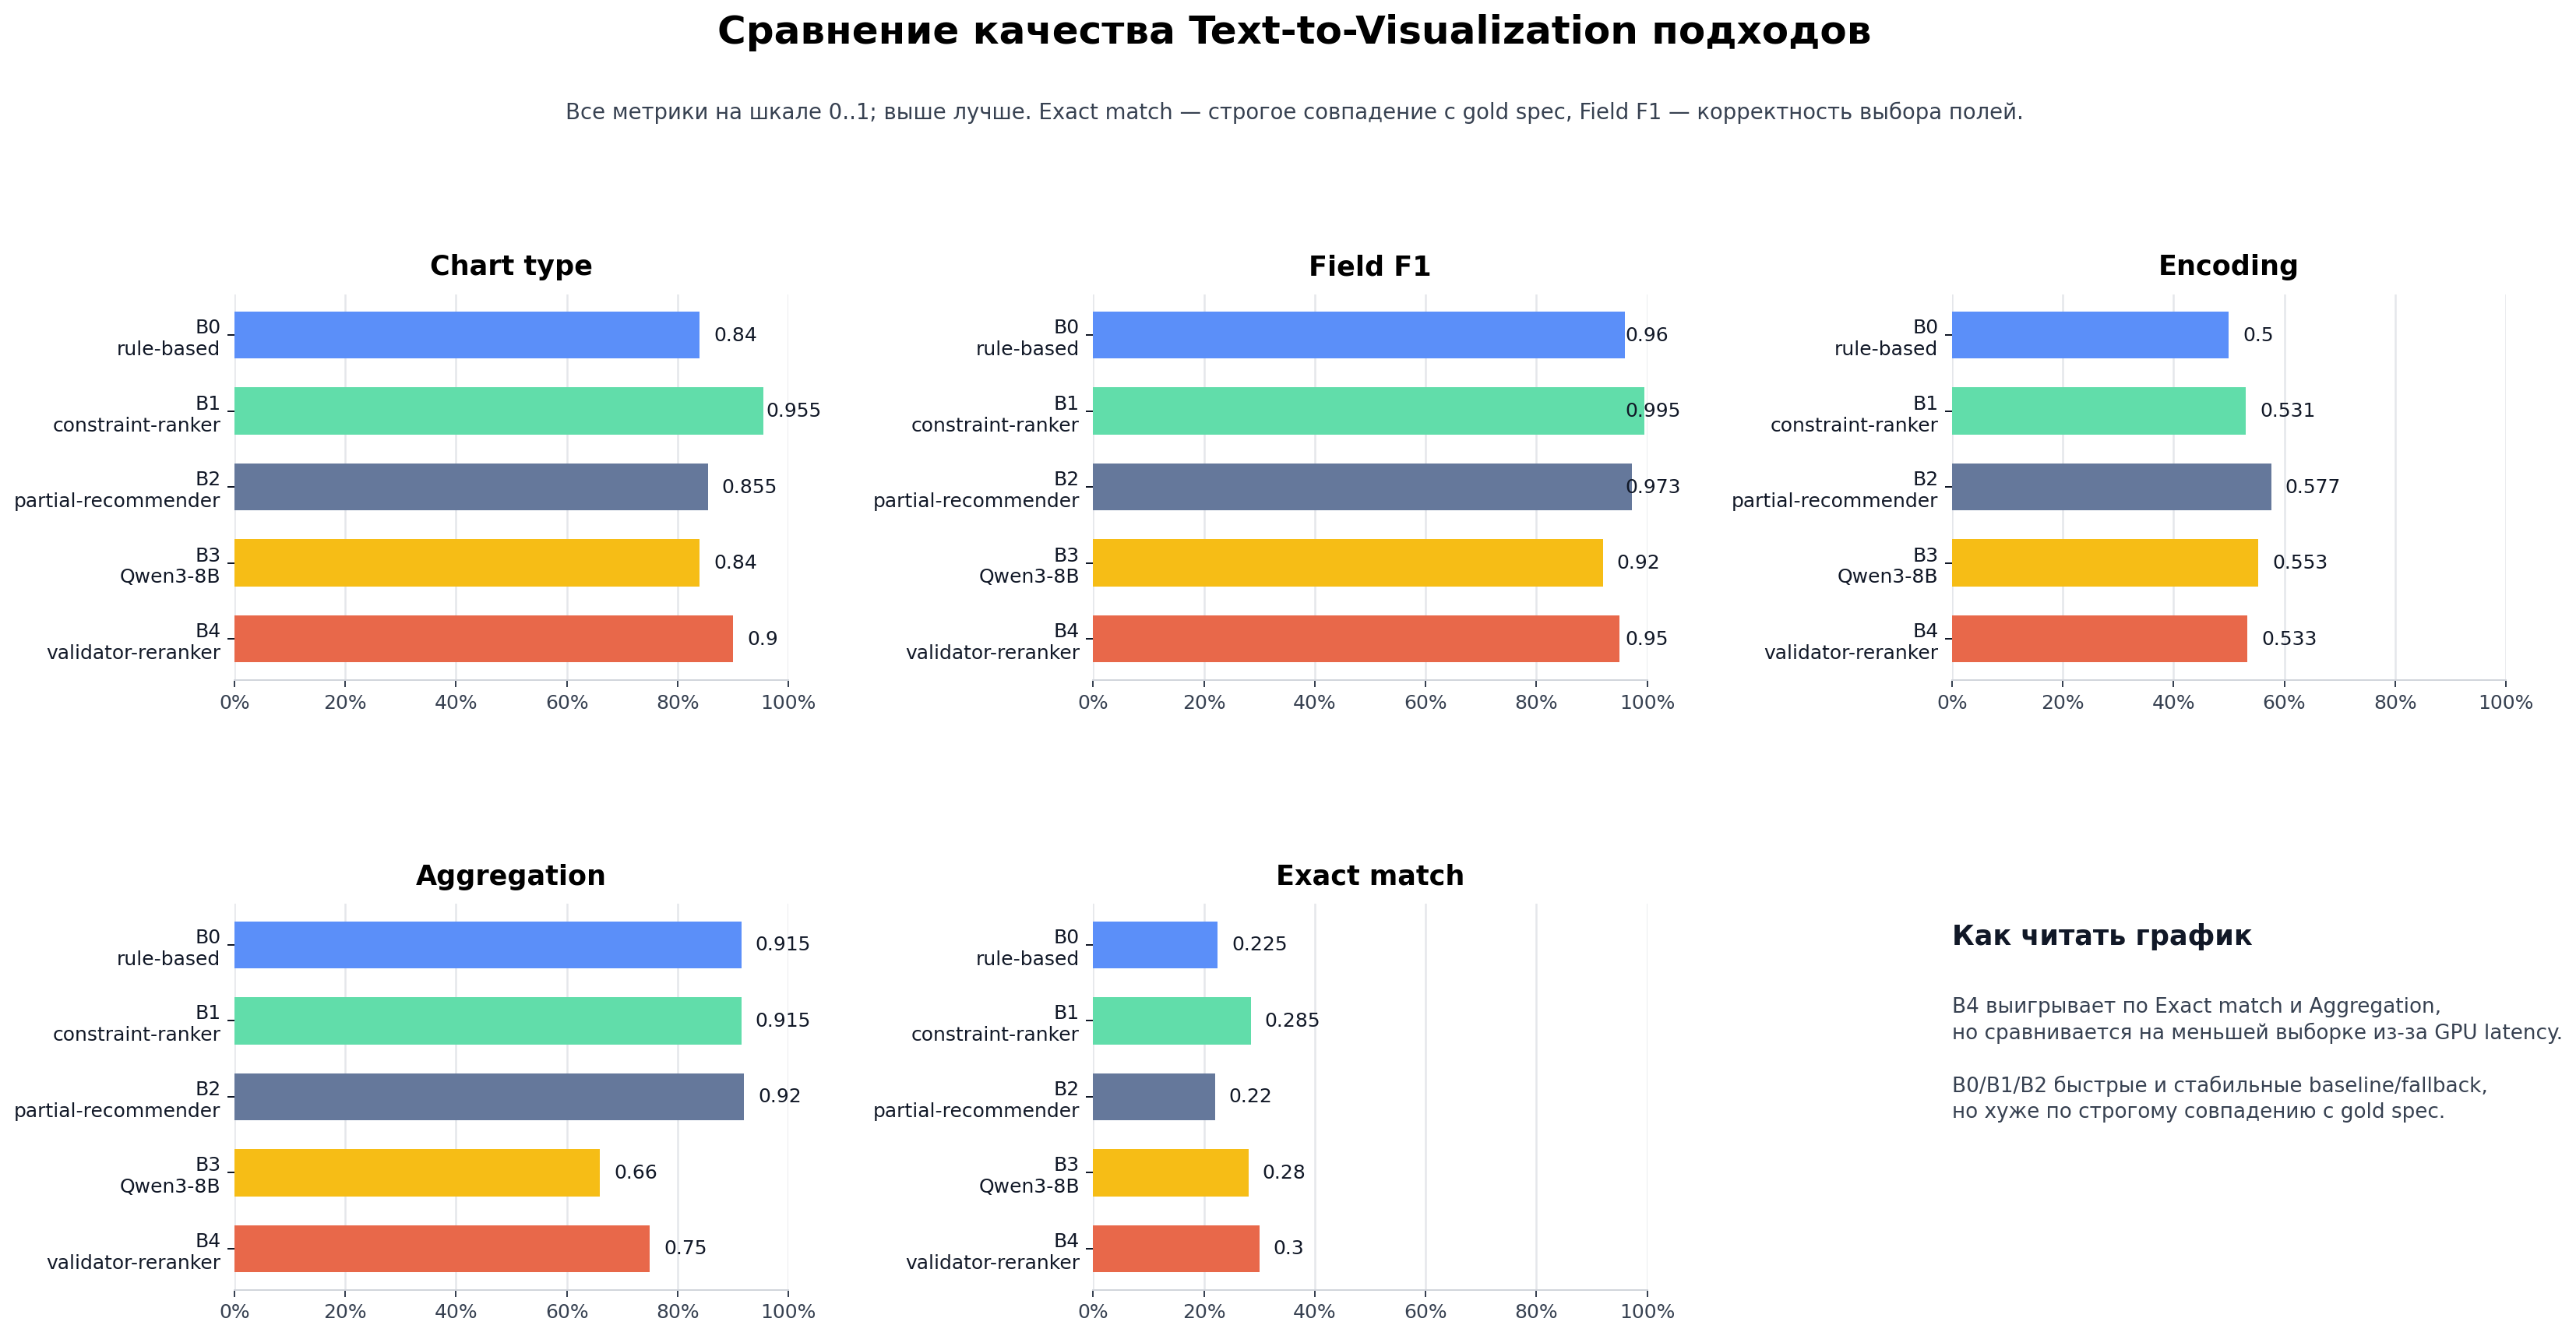
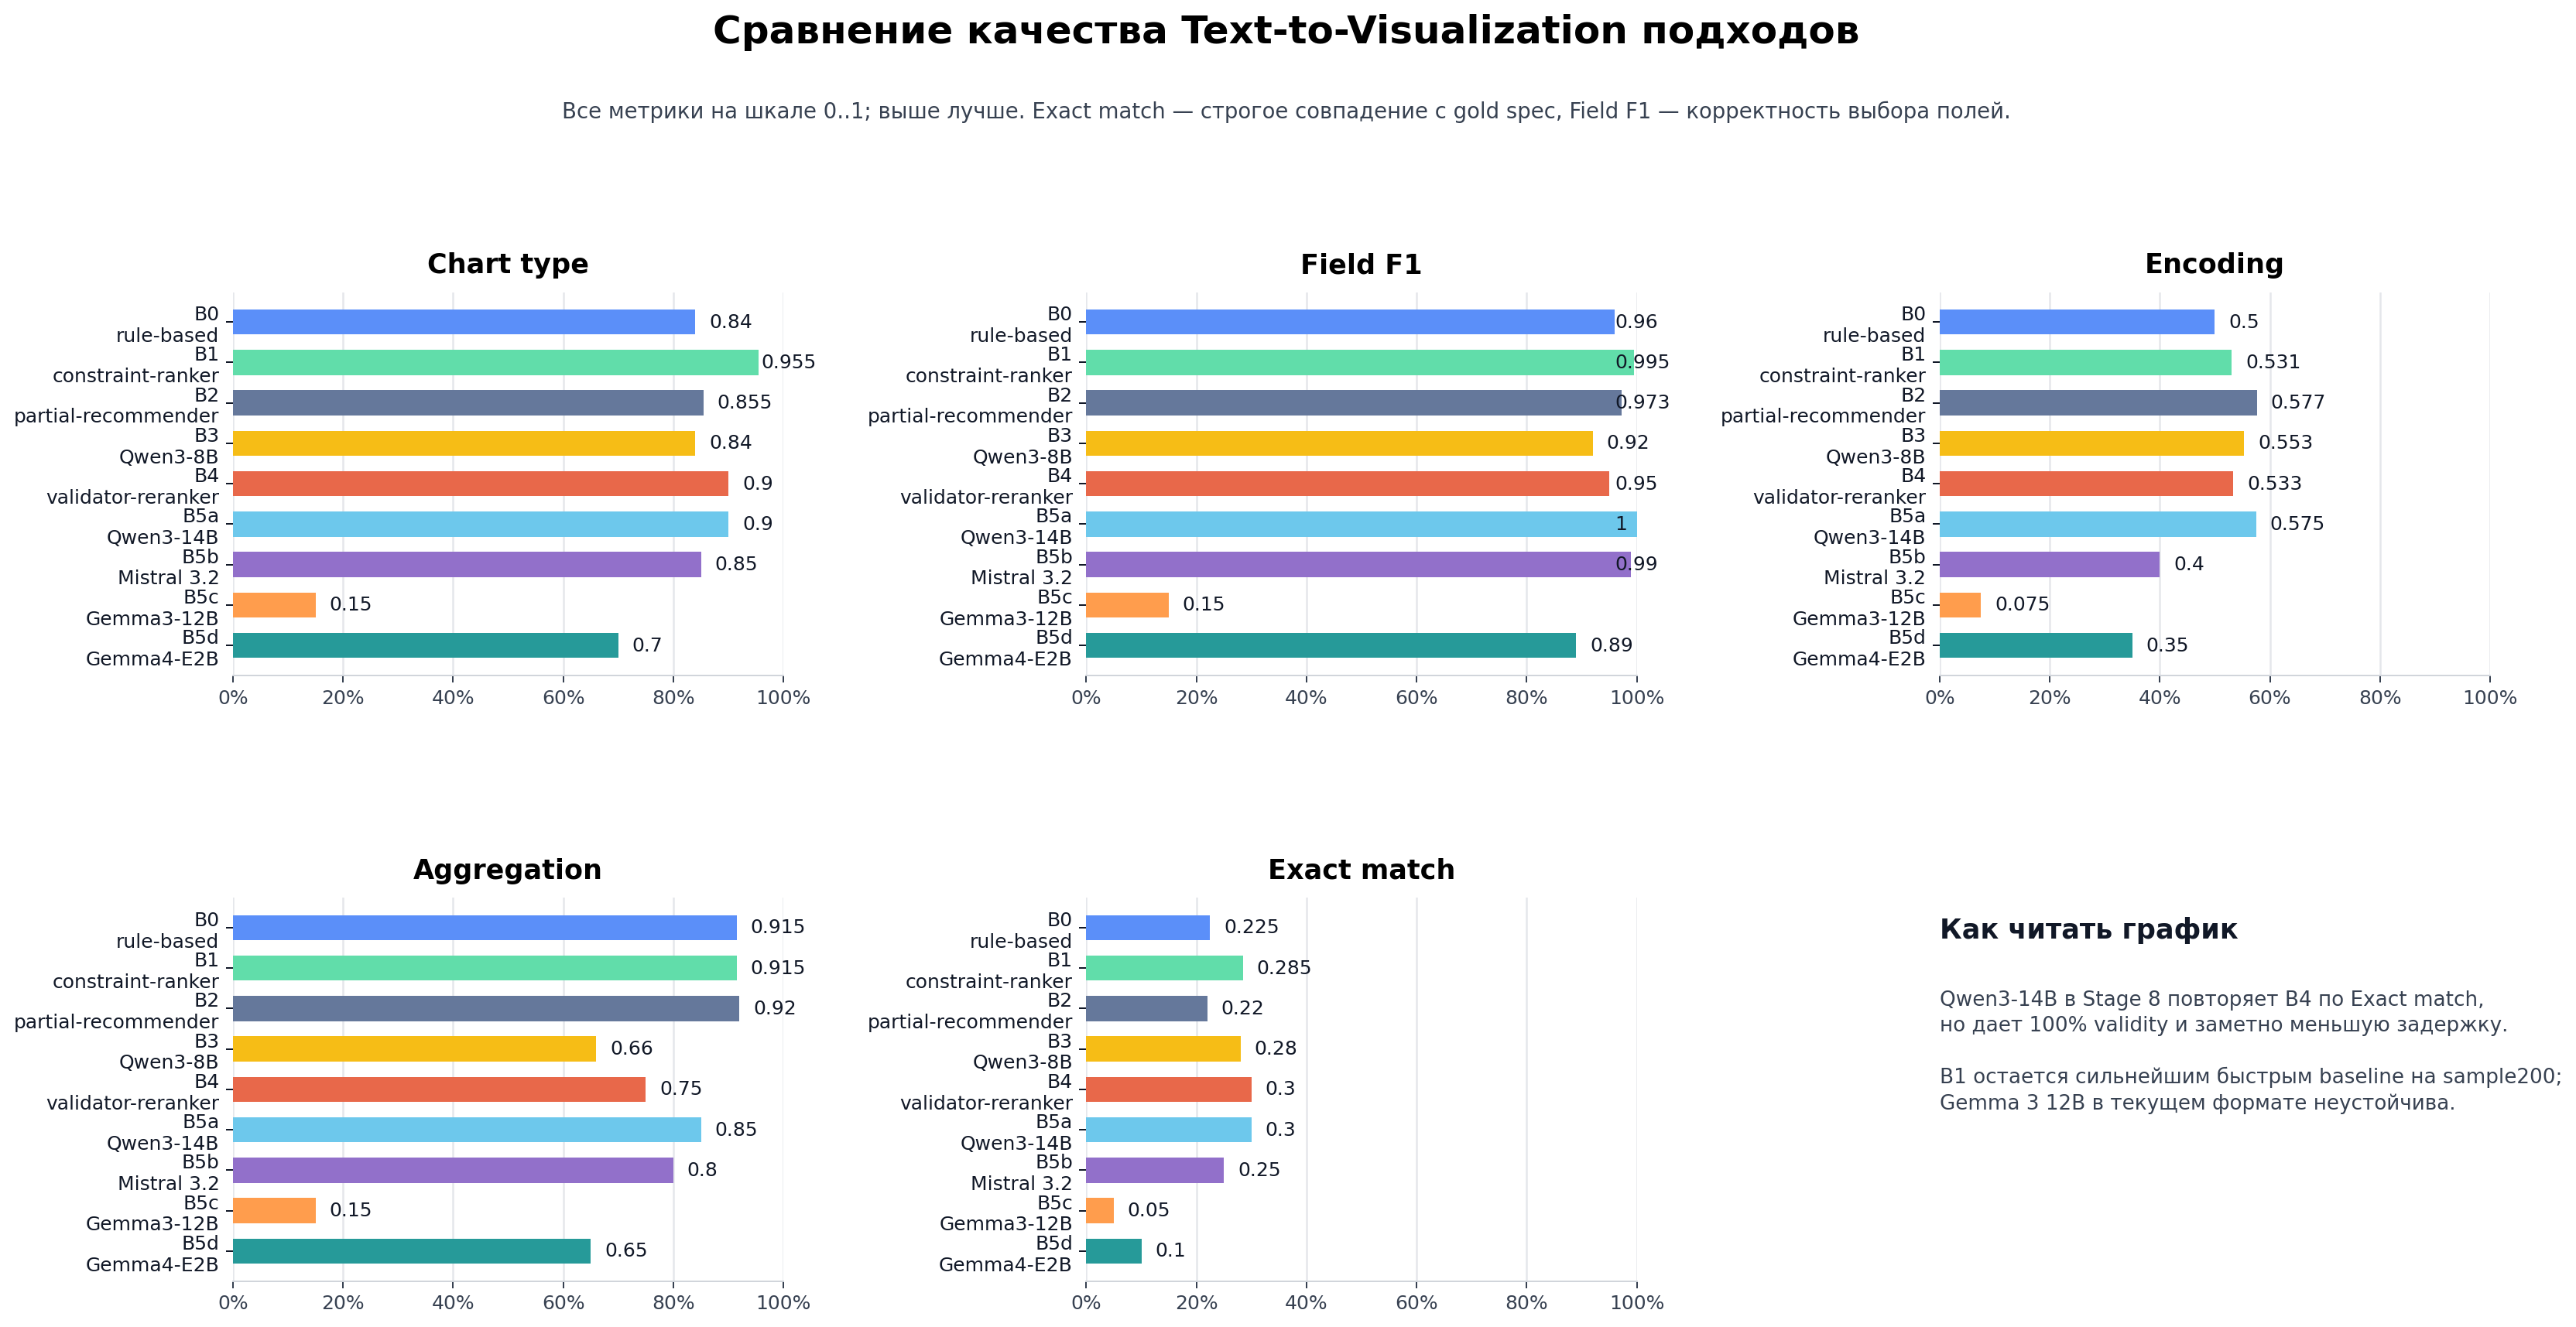
Fix Colab waiter and refresh Stage 9 materials

diff --git a/reports/stage9_report_materials/latex/quality_metrics_table.tex b/reports/stage9_report_materials/latex/quality_metrics_table.tex
@@ -18,6 +18,10 @@ B1 & 1 & 0.995 & 0.531 & 0.285 & 0 \\
 B2 & 1 & 0.973 & 0.577 & 0.22 & 0 \\
 B3 & 0.92 & 0.92 & 0.553 & 0.28 & 0.08 \\
 B4 & 0.95 & 0.95 & 0.533 & 0.3 & 0.05 \\
+B5a & 1 & 1 & 0.575 & 0.3 & 0 \\
+B5b & 1 & 0.99 & 0.4 & 0.25 & 0 \\
+B5c & 0.15 & 0.15 & 0.075 & 0.05 & 0.85 \\
+B5d & 0.9 & 0.89 & 0.35 & 0.1 & 0.1 \\
 \bottomrule
 \end{tabular}
 \end{table}

diff --git a/reports/practice_report_materials.md b/reports/practice_report_materials.md
@@ -8,7 +8,7 @@
 
 ## Что реализовано
 
-Реализованы пять подходов:
+Реализованы базовые подходы B0-B4 и дополнительные Stage 8 LLM-подходы B5a-B5d:
 
 | Подход | Метод | Семейство | Sample | run_id | Роль |
 | --- | --- | --- | --- | --- | --- |
@@ -17,8 +17,12 @@
 | B2 | B2_partial_recommender | Подход в стиле существующих инструментов | 200 | stage5_partial_sample200 | Частичный recommender fallback |
 | B3 | B3_local_llm_qwen3_8b | Локальная LLM | 50 | stage6_qwen3_8b_fast_sample50 | Один кандидат Qwen3-8B |
 | B4 | B4_llm_validator_reranker | Локальная LLM + validation | 20 | stage7_b4_sample20_tokens384 | 3 кандидата + validator/reranker |
+| B5a | B5_stage8_qwen3_14b | Stage 8 LLM + strict JSON validator | 20 | stage8_qwen3_14b_sample20 | Qwen3-14B, один кандидат, validator retry |
+| B5b | B5_stage8_mistral_small_32_24b_bnb4 | Stage 8 LLM + strict JSON validator | 20 | stage8_mistral_small_32_24b_bnb4_sample20 | Mistral Small 3.2 24B bnb-4bit, один кандидат |
+| B5c | B5_stage8_gemma3_12b_it | Stage 8 LLM + strict JSON validator | 20 | stage8_gemma3_12b_it_sample20 | Gemma 3 12B IT, gated HF model |
+| B5d | B5_stage8_gemma4_e2b_it | Stage 8 LLM + strict JSON validator | 20 | stage8_gemma4_e2b_it_sample20 | Gemma 4 E2B IT, малый контрольный LLM baseline |
 
-Этап 8 намеренно пропущен как опциональный: дополнительные LLM-эксперименты требуют GPU-времени, а для отчета уже есть сравнение пяти подходов `B0`-`B4`.
+Этап 8 добавлен отдельным блоком: `B5a`-`B5d` сравнивают новые LLM-модели с тем же строгим JSON/Vega-Lite validator и retry-контуром. Эти прогоны выполнены на `sample20`, поэтому они полезны для выбора LLM-кандидата, но не заменяют полное сравнение `B0`-`B2` на `sample200`.
 
 ## Методика экспериментов
 
@@ -26,7 +30,7 @@
 2. Все runs сохранялись в канонической папке Google Drive: `/content/drive/MyDrive/diploma/petr_text_to_visualization_part`.
 3. Для каждого метода сохранялись файлы предсказаний jsonl, агрегированные и попримерные метрики, информация о среде выполнения, pip freeze и артефакты рендеринга.
 4. Основные метрики: `vega_lite_validity`, `field_selection_f1`, `encoding_accuracy`, `aggregation_accuracy`, `normalized_exact_match`, `failure_rate`, `latency_ms`, `memory_peak_mb`.
-5. Для B4 дополнительно сохраняются все 3 кандидата на пример и считается `oracle_success_at_k`.
+5. Для B4 дополнительно сохраняются все 3 кандидата на пример и считается `oracle_success_at_k`; для Stage 8 моделей фиксируется один основной кандидат после validator retry.
 
 ## Итоговые результаты
 
@@ -39,6 +43,10 @@
 | B2 | 1.0 | 0.855 | 0.973 | 0.5766666666666667 | 0.92 | 0.22 | 0.22 |
 | B3 | 0.92 | 0.84 | 0.92 | 0.5533333333333333 | 0.66 | 0.28 | 0.28 |
 | B4 | 0.95 | 0.9 | 0.95 | 0.5333333333333333 | 0.75 | 0.3 | 0.35 |
+| B5a | 1.0 | 0.9 | 1.0 | 0.575 | 0.85 | 0.3 | 0.3 |
+| B5b | 1.0 | 0.85 | 0.99 | 0.4 | 0.8 | 0.25 | 0.25 |
+| B5c | 0.15 | 0.15 | 0.15 | 0.075 | 0.15 | 0.05 | 0.05 |
+| B5d | 0.9 | 0.7 | 0.89 | 0.35 | 0.65 | 0.1 | 0.1 |
 
 ### Задержка, память и ошибки
 
@@ -49,18 +57,22 @@
 | B2 | 7.05238 | 109.949 | 0.0 | 200 |
 | B3 | 20101.22146 | 1981.508 | 0.08 | 50 |
 | B4 | 66825.6801 | 2127.145 | 0.05 | 20 |
+| B5a | 8133.003999999999 | 2064.027 | 0.0 | 20 |
+| B5b | 6045.25885 | 1889.961 | 0.0 | 20 |
+| B5c | 69237.6294 | 2556.523 | 0.85 | 20 |
+| B5d | 44562.2476 | 2200.0 | 0.1 | 20 |
 
-Ключевой результат: `B4_llm_validator_reranker` дает лучший top-1 exact match среди финальных запусков, но проверен на меньшей выборке и дороже по задержке, так как генерирует три кандидата на пример. Среди быстрых детерминированных подходов сильнее всего выглядит `B1_constraint_ranker`, а `B2_partial_recommender` стал заметно лучше после пересборки данных. Практический вариант для интеграции - гибрид: быстрый детерминированный резервный подход (`B1`/`B2`) плюс B4 для случаев, где важнее качество и допустима задержка.
+Ключевой результат: среди быстрых детерминированных подходов сильнее всего выглядит `B1_constraint_ranker`, а среди новых LLM baseline лучший результат на `sample20` дал `Qwen3-14B` (`B5a`): он повторил B4 по exact match, получил 100% validity и оказался заметно быстрее B4. `Mistral Small 3.2` (`B5b`) выглядит как быстрый LLM-кандидат, но немного уступает Qwen3-14B по качеству. `Gemma 3 12B` (`B5c`) в текущем prompt/schema режиме не рекомендуется из-за высокого failure rate. Практический вариант для интеграции - гибрид: быстрый детерминированный резервный подход (`B1`/`B2`) плюс `Qwen3-14B` или B4 для случаев, где важнее качество и допустима задержка.
 
 ## Выбор подхода для дальнейшей интеграции
 
 Рекомендация:
 
 - Для рабочего резервного варианта: `B1_constraint_ranker` или `B2_partial_recommender`, потому что они быстрые, валидные и воспроизводимые.
-- Для исследовательского качества и демонстрации LLM-возможностей: `B4_llm_validator_reranker`.
-- Для одиночного LLM-подхода без reranking: `B3_local_llm_qwen3_8b`, если нужно снизить задержку относительно B4.
+- Для исследовательского качества и демонстрации LLM-возможностей: `B5_stage8_qwen3_14b` как лучший одиночный LLM baseline на sample20; B4 остается полезным как reranker/validator baseline.
+- Для быстрого одиночного LLM-подхода без reranking: `B5_stage8_mistral_small_32_24b_bnb4`, если важна задержка и допускается небольшое снижение качества относительно Qwen3-14B.
 
-Итоговая архитектура интеграции: сначала быстрый базовый подход формирует гарантированную валидную визуализацию; при наличии GPU/времени B4 генерирует несколько кандидатов, валидатор фильтрует незаконные спецификации, reranker выбирает лучший результат.
+Итоговая архитектура интеграции: сначала быстрый базовый подход формирует гарантированную валидную визуализацию; при наличии GPU/времени LLM-контур генерирует Vega-Lite JSON, validator не пропускает некорректные спецификации, а reranker используется только там, где несколько кандидатов реально улучшают качество.
 
 ## Рисунки для отчета
 
@@ -80,6 +92,10 @@
 - `stage5_partial_sample200`: `/content/drive/MyDrive/diploma/petr_text_to_visualization_part/runs/stage5_partial_sample200`
 - `stage6_qwen3_8b_fast_sample50`: `/content/drive/MyDrive/diploma/petr_text_to_visualization_part/runs/stage6_qwen3_8b_fast_sample50`
 - `stage7_b4_sample20_tokens384`: `/content/drive/MyDrive/diploma/petr_text_to_visualization_part/runs/stage7_b4_sample20_tokens384`
+- `stage8_qwen3_14b_sample20`: `/content/drive/MyDrive/diploma/petr_text_to_visualization_part/runs/stage8_qwen3_14b_sample20`
+- `stage8_mistral_small_32_24b_bnb4_sample20`: `/content/drive/MyDrive/diploma/petr_text_to_visualization_part/runs/stage8_mistral_small_32_24b_bnb4_sample20`
+- `stage8_gemma3_12b_it_sample20`: `/content/drive/MyDrive/diploma/petr_text_to_visualization_part/runs/stage8_gemma3_12b_it_sample20`
+- `stage8_gemma4_e2b_it_sample20`: `/content/drive/MyDrive/diploma/petr_text_to_visualization_part/runs/stage8_gemma4_e2b_it_sample20`
 
 Материалы этапа 9:
 
@@ -122,7 +138,7 @@ python -m pytest -q
 
 ## Ограничения
 
-- Метрики B3/B4 получены на меньших sample sizes из-за задержки на GPU.
+- Метрики B3/B4/B5 получены на меньших sample sizes из-за задержки на GPU; B0-B2 посчитаны на sample200, B3 на sample50, B4/B5 на sample20.
 - B2 является частичным резервным подходом в стиле существующих инструментов, а не полноценной NL4DV интеграцией.
 - Rendered PNG используется как smoke/inspection artifact; корректность графика определяется метриками качества и ручным анализом.
 - Text-to-SQL не входит в оценку.

diff --git a/reports/stage9_report_materials/practice_report_materials.md b/reports/stage9_report_materials/practice_report_materials.md
@@ -8,7 +8,7 @@
 
 ## Что реализовано
 
-Реализованы пять подходов:
+Реализованы базовые подходы B0-B4 и дополнительные Stage 8 LLM-подходы B5a-B5d:
 
 | Подход | Метод | Семейство | Sample | run_id | Роль |
 | --- | --- | --- | --- | --- | --- |
@@ -17,8 +17,12 @@
 | B2 | B2_partial_recommender | Подход в стиле существующих инструментов | 200 | stage5_partial_sample200 | Частичный recommender fallback |
 | B3 | B3_local_llm_qwen3_8b | Локальная LLM | 50 | stage6_qwen3_8b_fast_sample50 | Один кандидат Qwen3-8B |
 | B4 | B4_llm_validator_reranker | Локальная LLM + validation | 20 | stage7_b4_sample20_tokens384 | 3 кандидата + validator/reranker |
+| B5a | B5_stage8_qwen3_14b | Stage 8 LLM + strict JSON validator | 20 | stage8_qwen3_14b_sample20 | Qwen3-14B, один кандидат, validator retry |
+| B5b | B5_stage8_mistral_small_32_24b_bnb4 | Stage 8 LLM + strict JSON validator | 20 | stage8_mistral_small_32_24b_bnb4_sample20 | Mistral Small 3.2 24B bnb-4bit, один кандидат |
+| B5c | B5_stage8_gemma3_12b_it | Stage 8 LLM + strict JSON validator | 20 | stage8_gemma3_12b_it_sample20 | Gemma 3 12B IT, gated HF model |
+| B5d | B5_stage8_gemma4_e2b_it | Stage 8 LLM + strict JSON validator | 20 | stage8_gemma4_e2b_it_sample20 | Gemma 4 E2B IT, малый контрольный LLM baseline |
 
-Этап 8 намеренно пропущен как опциональный: дополнительные LLM-эксперименты требуют GPU-времени, а для отчета уже есть сравнение пяти подходов `B0`-`B4`.
+Этап 8 добавлен отдельным блоком: `B5a`-`B5d` сравнивают новые LLM-модели с тем же строгим JSON/Vega-Lite validator и retry-контуром. Эти прогоны выполнены на `sample20`, поэтому они полезны для выбора LLM-кандидата, но не заменяют полное сравнение `B0`-`B2` на `sample200`.
 
 ## Методика экспериментов
 
@@ -26,7 +30,7 @@
 2. Все runs сохранялись в канонической папке Google Drive: `/content/drive/MyDrive/diploma/petr_text_to_visualization_part`.
 3. Для каждого метода сохранялись файлы предсказаний jsonl, агрегированные и попримерные метрики, информация о среде выполнения, pip freeze и артефакты рендеринга.
 4. Основные метрики: `vega_lite_validity`, `field_selection_f1`, `encoding_accuracy`, `aggregation_accuracy`, `normalized_exact_match`, `failure_rate`, `latency_ms`, `memory_peak_mb`.
-5. Для B4 дополнительно сохраняются все 3 кандидата на пример и считается `oracle_success_at_k`.
+5. Для B4 дополнительно сохраняются все 3 кандидата на пример и считается `oracle_success_at_k`; для Stage 8 моделей фиксируется один основной кандидат после validator retry.
 
 ## Итоговые результаты
 
@@ -39,6 +43,10 @@
 | B2 | 1.0 | 0.855 | 0.973 | 0.5766666666666667 | 0.92 | 0.22 | 0.22 |
 | B3 | 0.92 | 0.84 | 0.92 | 0.5533333333333333 | 0.66 | 0.28 | 0.28 |
 | B4 | 0.95 | 0.9 | 0.95 | 0.5333333333333333 | 0.75 | 0.3 | 0.35 |
+| B5a | 1.0 | 0.9 | 1.0 | 0.575 | 0.85 | 0.3 | 0.3 |
+| B5b | 1.0 | 0.85 | 0.99 | 0.4 | 0.8 | 0.25 | 0.25 |
+| B5c | 0.15 | 0.15 | 0.15 | 0.075 | 0.15 | 0.05 | 0.05 |
+| B5d | 0.9 | 0.7 | 0.89 | 0.35 | 0.65 | 0.1 | 0.1 |
 
 ### Задержка, память и ошибки
 
@@ -49,18 +57,22 @@
 | B2 | 7.05238 | 109.949 | 0.0 | 200 |
 | B3 | 20101.22146 | 1981.508 | 0.08 | 50 |
 | B4 | 66825.6801 | 2127.145 | 0.05 | 20 |
+| B5a | 8133.003999999999 | 2064.027 | 0.0 | 20 |
+| B5b | 6045.25885 | 1889.961 | 0.0 | 20 |
+| B5c | 69237.6294 | 2556.523 | 0.85 | 20 |
+| B5d | 44562.2476 | 2200.0 | 0.1 | 20 |
 
-Ключевой результат: `B4_llm_validator_reranker` дает лучший top-1 exact match среди финальных запусков, но проверен на меньшей выборке и дороже по задержке, так как генерирует три кандидата на пример. Среди быстрых детерминированных подходов сильнее всего выглядит `B1_constraint_ranker`, а `B2_partial_recommender` стал заметно лучше после пересборки данных. Практический вариант для интеграции - гибрид: быстрый детерминированный резервный подход (`B1`/`B2`) плюс B4 для случаев, где важнее качество и допустима задержка.
+Ключевой результат: среди быстрых детерминированных подходов сильнее всего выглядит `B1_constraint_ranker`, а среди новых LLM baseline лучший результат на `sample20` дал `Qwen3-14B` (`B5a`): он повторил B4 по exact match, получил 100% validity и оказался заметно быстрее B4. `Mistral Small 3.2` (`B5b`) выглядит как быстрый LLM-кандидат, но немного уступает Qwen3-14B по качеству. `Gemma 3 12B` (`B5c`) в текущем prompt/schema режиме не рекомендуется из-за высокого failure rate. Практический вариант для интеграции - гибрид: быстрый детерминированный резервный подход (`B1`/`B2`) плюс `Qwen3-14B` или B4 для случаев, где важнее качество и допустима задержка.
 
 ## Выбор подхода для дальнейшей интеграции
 
 Рекомендация:
 
 - Для рабочего резервного варианта: `B1_constraint_ranker` или `B2_partial_recommender`, потому что они быстрые, валидные и воспроизводимые.
-- Для исследовательского качества и демонстрации LLM-возможностей: `B4_llm_validator_reranker`.
-- Для одиночного LLM-подхода без reranking: `B3_local_llm_qwen3_8b`, если нужно снизить задержку относительно B4.
+- Для исследовательского качества и демонстрации LLM-возможностей: `B5_stage8_qwen3_14b` как лучший одиночный LLM baseline на sample20; B4 остается полезным как reranker/validator baseline.
+- Для быстрого одиночного LLM-подхода без reranking: `B5_stage8_mistral_small_32_24b_bnb4`, если важна задержка и допускается небольшое снижение качества относительно Qwen3-14B.
 
-Итоговая архитектура интеграции: сначала быстрый базовый подход формирует гарантированную валидную визуализацию; при наличии GPU/времени B4 генерирует несколько кандидатов, валидатор фильтрует незаконные спецификации, reranker выбирает лучший результат.
+Итоговая архитектура интеграции: сначала быстрый базовый подход формирует гарантированную валидную визуализацию; при наличии GPU/времени LLM-контур генерирует Vega-Lite JSON, validator не пропускает некорректные спецификации, а reranker используется только там, где несколько кандидатов реально улучшают качество.
 
 ## Рисунки для отчета
 
@@ -80,6 +92,10 @@
 - `stage5_partial_sample200`: `/content/drive/MyDrive/diploma/petr_text_to_visualization_part/runs/stage5_partial_sample200`
 - `stage6_qwen3_8b_fast_sample50`: `/content/drive/MyDrive/diploma/petr_text_to_visualization_part/runs/stage6_qwen3_8b_fast_sample50`
 - `stage7_b4_sample20_tokens384`: `/content/drive/MyDrive/diploma/petr_text_to_visualization_part/runs/stage7_b4_sample20_tokens384`
+- `stage8_qwen3_14b_sample20`: `/content/drive/MyDrive/diploma/petr_text_to_visualization_part/runs/stage8_qwen3_14b_sample20`
+- `stage8_mistral_small_32_24b_bnb4_sample20`: `/content/drive/MyDrive/diploma/petr_text_to_visualization_part/runs/stage8_mistral_small_32_24b_bnb4_sample20`
+- `stage8_gemma3_12b_it_sample20`: `/content/drive/MyDrive/diploma/petr_text_to_visualization_part/runs/stage8_gemma3_12b_it_sample20`
+- `stage8_gemma4_e2b_it_sample20`: `/content/drive/MyDrive/diploma/petr_text_to_visualization_part/runs/stage8_gemma4_e2b_it_sample20`
 
 Материалы этапа 9:
 
@@ -122,7 +138,7 @@ python -m pytest -q
 
 ## Ограничения
 
-- Метрики B3/B4 получены на меньших sample sizes из-за задержки на GPU.
+- Метрики B3/B4/B5 получены на меньших sample sizes из-за задержки на GPU; B0-B2 посчитаны на sample200, B3 на sample50, B4/B5 на sample20.
 - B2 является частичным резервным подходом в стиле существующих инструментов, а не полноценной NL4DV интеграцией.
 - Rendered PNG используется как smoke/inspection artifact; корректность графика определяется метриками качества и ручным анализом.
 - Text-to-SQL не входит в оценку.

diff --git a/reports/stage_reviews/STAGE_9_REVIEW.md b/reports/stage_reviews/STAGE_9_REVIEW.md
@@ -1,10 +1,10 @@
 # Отчет по проверке этапа 9: финальные материалы для отчета по практике
 
-Дата: 2026-04-26
+Дата: 2026-05-08
 
 Статус: завершен.
 
-Этап 8 намеренно пропущен как опциональный. После обновления валидатора повторно запущены B2/B3/B4, а Stage 9 пересобран на актуальных метриках.
+Этап 8 включен в обновленную сборку: добавлены Stage 8 LLM baseline `B5a`-`B5d`, включая Qwen3-14B, Mistral Small 3.2, Gemma 3 12B и Gemma 4 E2B.
 
 ## Финальные запуски
 
@@ -15,6 +15,10 @@
 | B2 | B2_partial_recommender | stage5_partial_sample200 | B2_partial_recommender | 200 | Подход в стиле существующих инструментов | Частичный recommender fallback |
 | B3 | B3_local_llm_qwen3_8b | stage6_qwen3_8b_fast_sample50 | B3_local_llm_qwen3_8b | 50 | Локальная LLM | Один кандидат Qwen3-8B |
 | B4 | B4_llm_validator_reranker | stage7_b4_sample20_tokens384 | B4_llm_validator_reranker | 20 | Локальная LLM + validation | 3 кандидата + validator/reranker |
+| B5a | B5_stage8_qwen3_14b | stage8_qwen3_14b_sample20 | B5_stage8_qwen3_14b | 20 | Stage 8 LLM + strict JSON validator | Qwen3-14B, один кандидат, validator retry |
+| B5b | B5_stage8_mistral_small_32_24b_bnb4 | stage8_mistral_small_32_24b_bnb4_sample20 | B5_stage8_mistral_small_32_24b_bnb4 | 20 | Stage 8 LLM + strict JSON validator | Mistral Small 3.2 24B bnb-4bit, один кандидат |
+| B5c | B5_stage8_gemma3_12b_it | stage8_gemma3_12b_it_sample20 | B5_stage8_gemma3_12b_it | 20 | Stage 8 LLM + strict JSON validator | Gemma 3 12B IT, gated HF model |
+| B5d | B5_stage8_gemma4_e2b_it | stage8_gemma4_e2b_it_sample20 | B5_stage8_gemma4_e2b_it | 20 | Stage 8 LLM + strict JSON validator | Gemma 4 E2B IT, малый контрольный LLM baseline |
 
 ## Выходные материалы
 
@@ -74,7 +78,7 @@ Colab через runner:
 
 ## Инвентаризация runs
 
-Найдено папок runs: 4
+Найдено папок runs: 8
 
 Файл инвентаризации:
 
@@ -88,6 +92,10 @@ reports/stage9_report_materials/run_inventory.json
 - `stage5_partial_sample200`: B2
 - `stage6_qwen3_8b_fast_sample50`: B3
 - `stage7_b4_sample20_tokens384`: B4
+- `stage8_qwen3_14b_sample20`: B5a
+- `stage8_mistral_small_32_24b_bnb4_sample20`: B5b
+- `stage8_gemma3_12b_it_sample20`: B5c
+- `stage8_gemma4_e2b_it_sample20`: B5d
 
 ## Проверка
 
@@ -97,12 +105,12 @@ reports/stage9_report_materials/run_inventory.json
 - Colab-проверка нашла обязательные Drive-артефакты и вывела `STAGE9_VERIFY_OK`.
 - Итоговая рекомендация включена в `practice_report_materials.md`.
 - Все финальные run_id и пути к артефактам перечислены.
-- Работа по этапу 8 не начиналась.
+- Этап 8 пересчитан на sample20. Qwen3-14B стал лучшим новым одиночным LLM baseline; Gemma 3 12B показала высокий failure rate и требует отдельной доработки prompt/chat template.
 
 ## Проблемы и замечания
 
-- Этап 8 намеренно пропущен, потому что уже сравнены пять подходов, а дополнительные LLM runs увеличили бы GPU-затраты.
-- B3/B4 повторно запускались после правок валидатора; B4 может немного плавать по `oracle_success_at_k`, потому что часть кандидатов генерируется с температурой.
+- Этап 8 включен в отчет как дополнительное сравнение LLM-моделей. Метрики Stage 8 нужно читать с учетом sample20.
+- B3/B4/Stage8 запускались на меньших выборках из-за GPU-задержки; B4 может немного плавать по `oracle_success_at_k`, потому что часть кандидатов генерируется с температурой.
 - Логика B0/B1/B2 не менялась после финального Stage 4/5 прогона; для Stage 9 обновлены только метрики и материалы.
 - Локальная пересборка workbook может быть пропущена, если `stage9_tables.xlsx` открыт в Excel; Colab создает workbook штатно.
 - Сетка примеров генерируется из Drive-артефактов финального B4 run; при локальной пересборке без Drive генератор использует резервную схему.

diff --git a/reports/stage9_report_materials/comparison_table.md b/reports/stage9_report_materials/comparison_table.md
@@ -5,3 +5,7 @@
 | B2 | B2_partial_recommender | Подход в стиле существующих инструментов | 200 | stage5_partial_sample200 | Частичный recommender fallback |
 | B3 | B3_local_llm_qwen3_8b | Локальная LLM | 50 | stage6_qwen3_8b_fast_sample50 | Один кандидат Qwen3-8B |
 | B4 | B4_llm_validator_reranker | Локальная LLM + validation | 20 | stage7_b4_sample20_tokens384 | 3 кандидата + validator/reranker |
+| B5a | B5_stage8_qwen3_14b | Stage 8 LLM + strict JSON validator | 20 | stage8_qwen3_14b_sample20 | Qwen3-14B, один кандидат, validator retry |
+| B5b | B5_stage8_mistral_small_32_24b_bnb4 | Stage 8 LLM + strict JSON validator | 20 | stage8_mistral_small_32_24b_bnb4_sample20 | Mistral Small 3.2 24B bnb-4bit, один кандидат |
+| B5c | B5_stage8_gemma3_12b_it | Stage 8 LLM + strict JSON validator | 20 | stage8_gemma3_12b_it_sample20 | Gemma 3 12B IT, gated HF model |
+| B5d | B5_stage8_gemma4_e2b_it | Stage 8 LLM + strict JSON validator | 20 | stage8_gemma4_e2b_it_sample20 | Gemma 4 E2B IT, малый контрольный LLM baseline |

diff --git a/reports/stage9_report_materials/quality_metrics_table.md b/reports/stage9_report_materials/quality_metrics_table.md
@@ -5,3 +5,7 @@
 | B2 | 1.0 | 0.855 | 0.973 | 0.5766666666666667 | 0.92 | 0.22 | 0.22 |
 | B3 | 0.92 | 0.84 | 0.92 | 0.5533333333333333 | 0.66 | 0.28 | 0.28 |
 | B4 | 0.95 | 0.9 | 0.95 | 0.5333333333333333 | 0.75 | 0.3 | 0.35 |
+| B5a | 1.0 | 0.9 | 1.0 | 0.575 | 0.85 | 0.3 | 0.3 |
+| B5b | 1.0 | 0.85 | 0.99 | 0.4 | 0.8 | 0.25 | 0.25 |
+| B5c | 0.15 | 0.15 | 0.15 | 0.075 | 0.15 | 0.05 | 0.05 |
+| B5d | 0.9 | 0.7 | 0.89 | 0.35 | 0.65 | 0.1 | 0.1 |